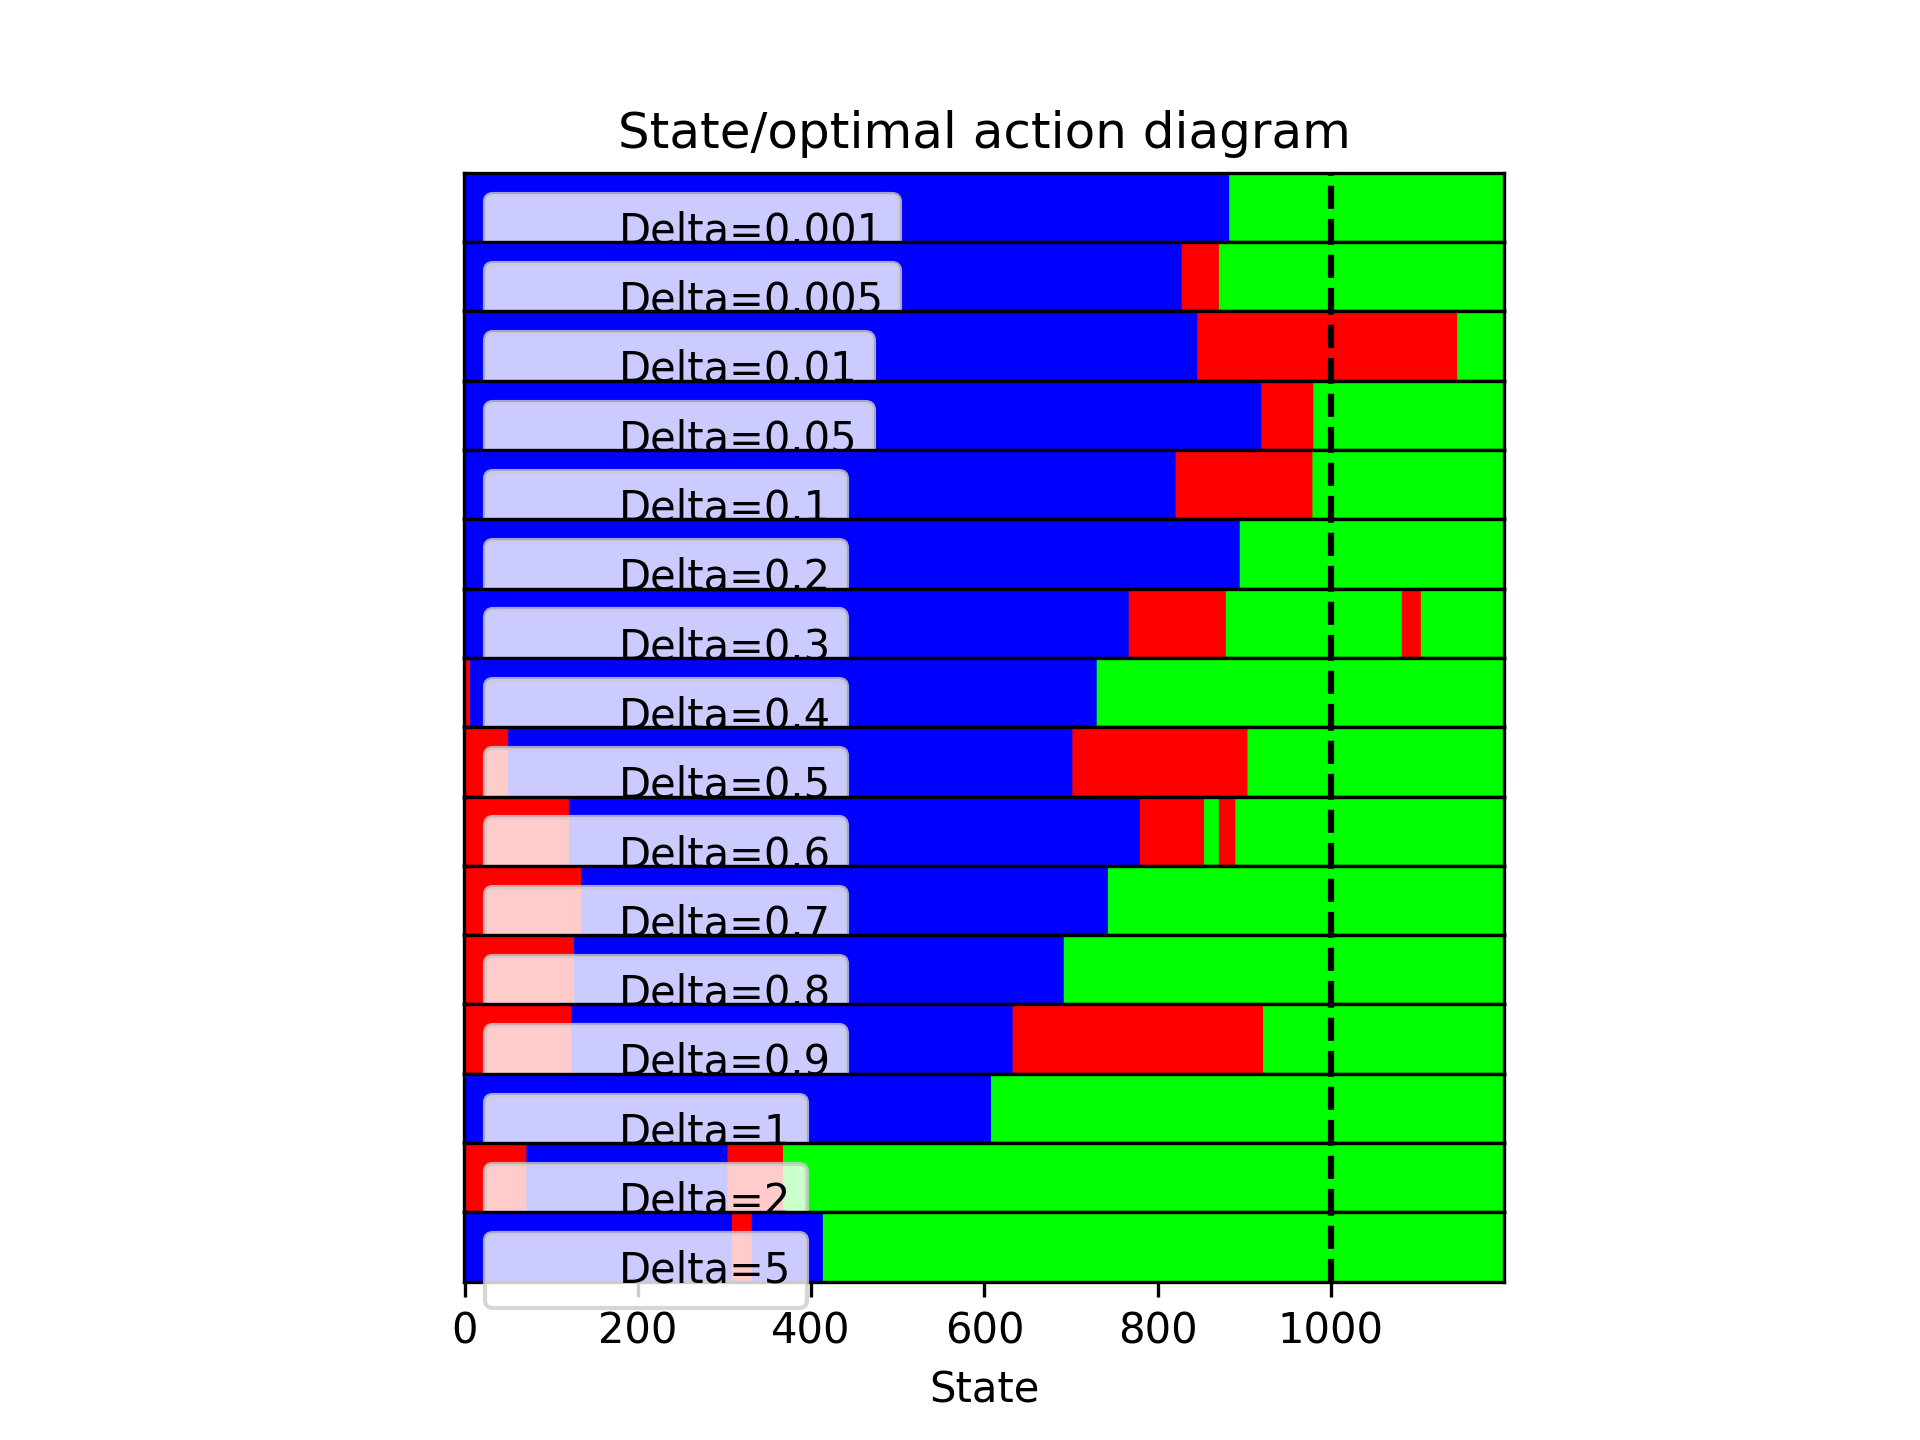
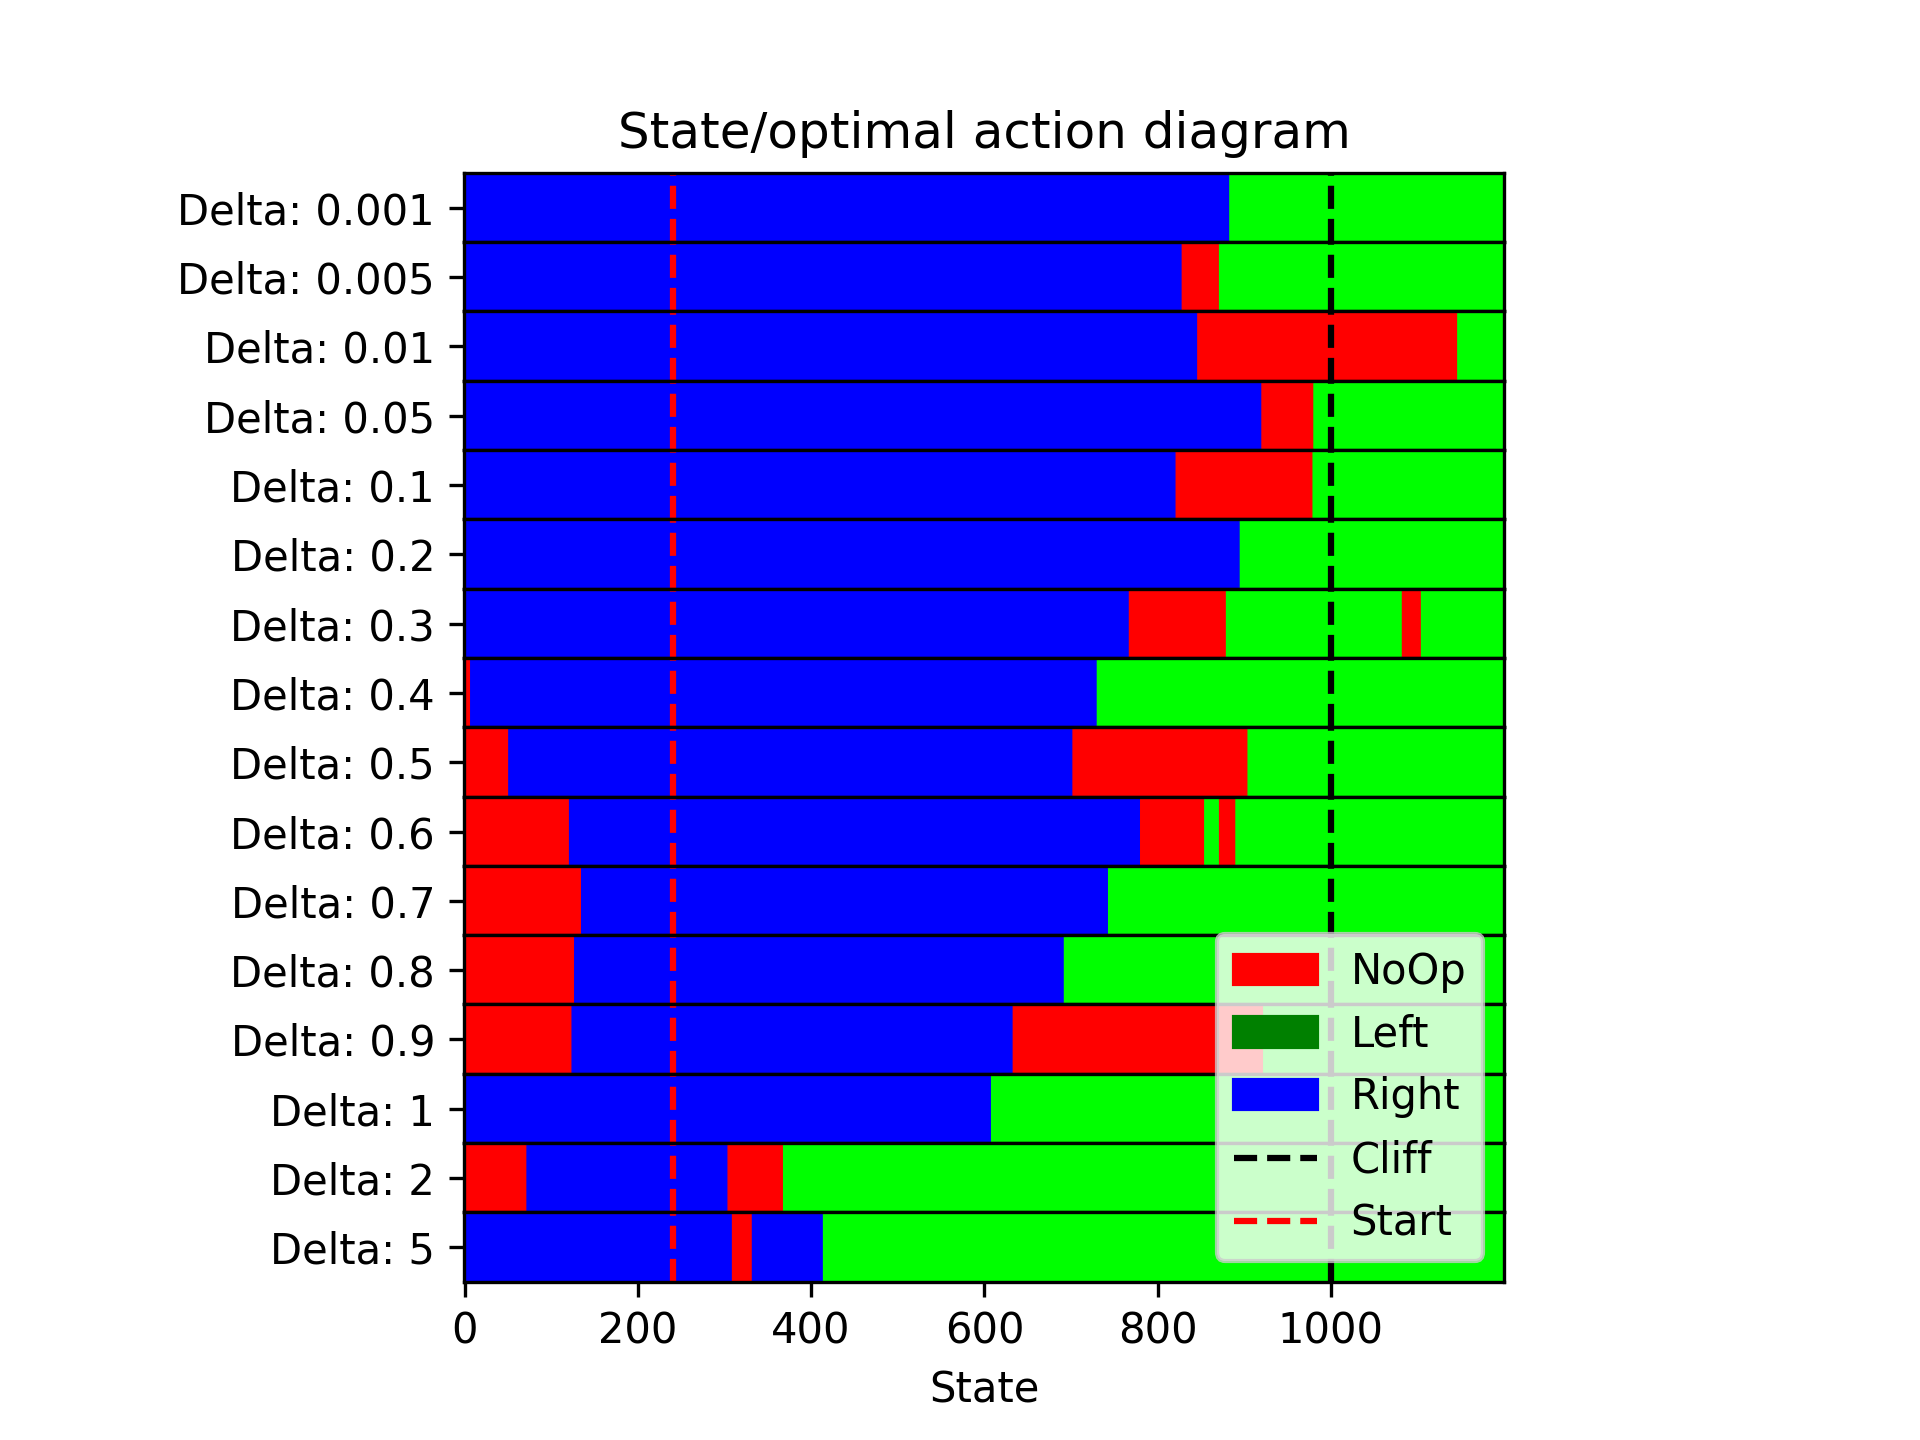
q_distribution_graf

diff --git a/sumo_ensemble_test.py b/sumo_ensemble_test.py
@@ -194,6 +194,7 @@ def plot_q_as_image_multiple_delta():
     # Remove vertical distance between plots
     fig.subplots_adjust(hspace=0)
     
+    
     axs[0].set_title(f'State/optimal action diagram')
     
     for i, delta in enumerate(deltas):
@@ -211,28 +212,29 @@ def plot_q_as_image_multiple_delta():
         
         
         # Custom label without colored box. Only text saying "Delta=0.1"
-        patch = mpatches.Patch(color='None', label=f"Delta={delta}")
+        # patch = mpatches.Patch(color='None', label=f"Delta={delta}")
 
 
-        axs[i].legend(handles=[patch], loc = 2)
+        # axs[i].legend(handles=[patch], loc = 2)
         
         # Remove x ticks
-        axs[i].set_yticks([])
+        axs[i].set_yticks([40],[f"Delta: {delta}"])
         
         if i != len(deltas) - 1 :
             axs[i].set_xticks([])
         else:
             axs[i].set_xlabel('State')
             
-        axs[i].axvline(x=1000, color='k', linestyle='--')
+        cliff_line = axs[i].axvline(x=1000, color='k', linestyle='--', label = f"Cliff")
+        start_line = axs[i].axvline(x=240, color='r', linestyle='--', label = f"Start")
         
         
+    patch0 = mpatches.Patch(color='red', label=f"NoOp")
+    patch2 = mpatches.Patch(color='blue', label=f"Right")
+    patch1 = mpatches.Patch(color='green', label=f"Left")
+    plt.legend(handles=[patch0, patch1, patch2, cliff_line,start_line], loc = 4)
     
     
-    # patch0 = mpatches.Patch(color='red', label=f"NoOp")
-    # patch1 = mpatches.Patch(color='green', label=f"Right")
-    # patch2 = mpatches.Patch(color='blue', label=f"Left")
-    # plt.legend(handles=[patch0, patch1, patch2], loc = 4)
     # plt.legend(loc = 2)
     # plt.ylabel('State density')
     # plt.xlabel('State')
